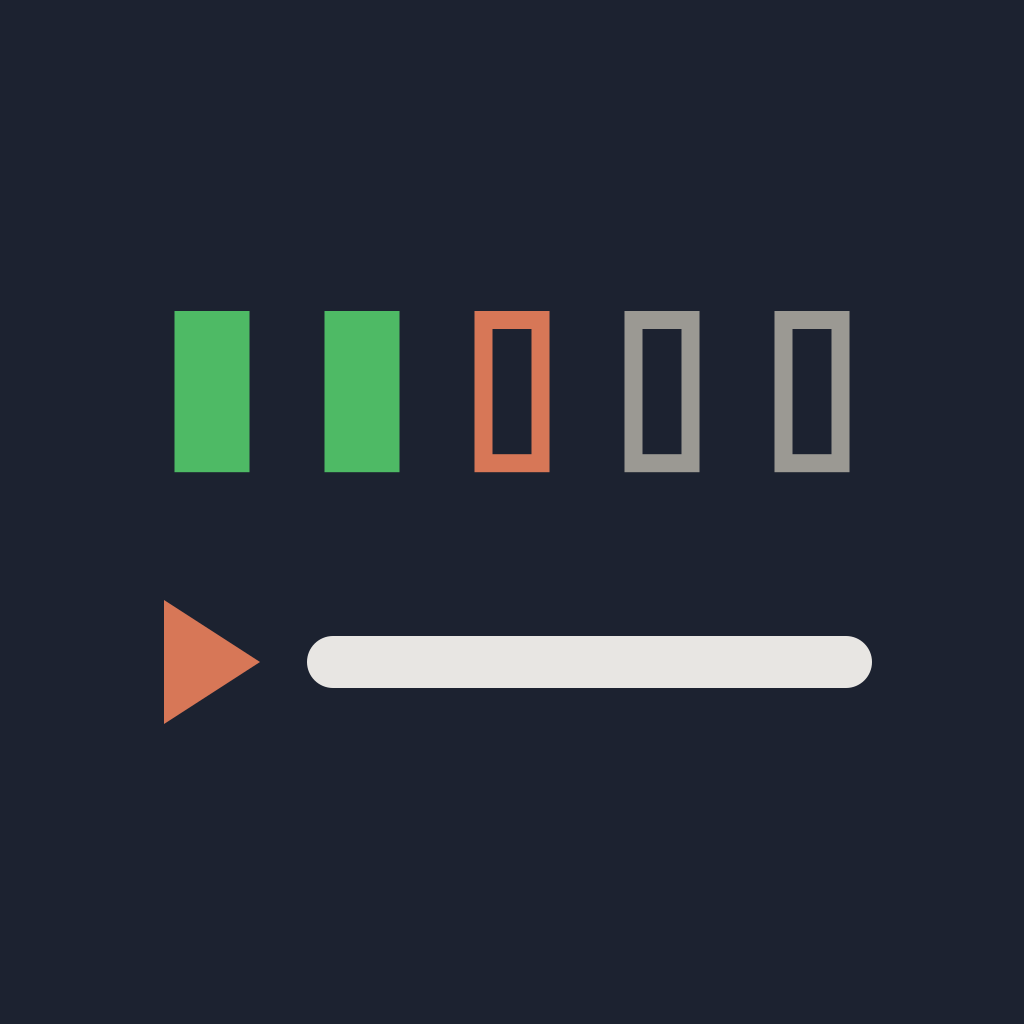
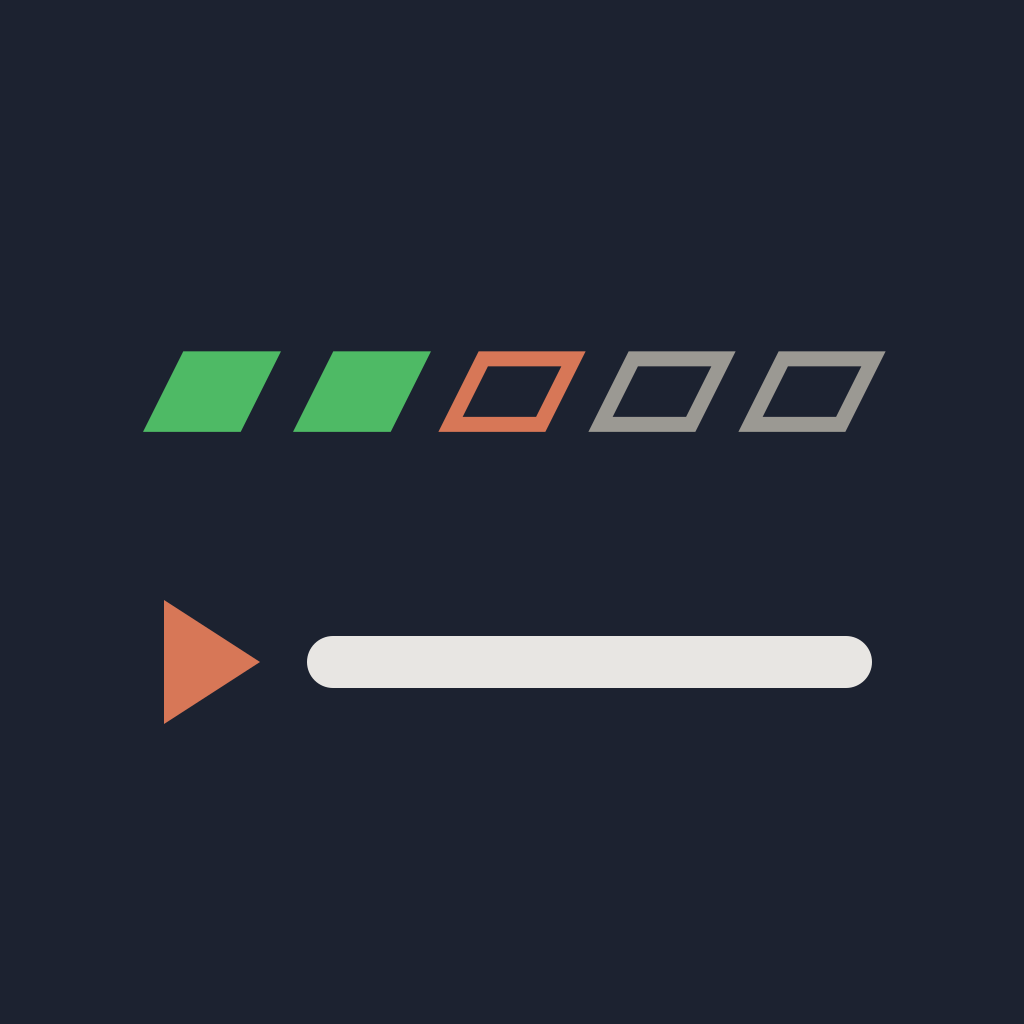
feat: draw the plan's marks slanted, in the mono face a size up
The slanted pair is the look the marks were first meant to have. It was
given up because the app's proportional font has neither glyph and
macOS borrows the filled and the hollow one from two fonts, the hollow
one half again as large. Under a monospaced base both are borrowed from
one font, so each mark's span asks for the surface's mono face.

That font draws the pair 0.29 em tall, small beside the row's text, so
the marks also go one size step up. The terminal ignores both props.

The hero, the social card and the icon are redrawn from the same rows.

Changed region(s): [[0.2812, 0.2812, 0.875, 0.4688], [0.125, 0.2812, 0.2812, 0.4688]]

diff --git a/plugin/tests/band.test.ts b/plugin/tests/band.test.ts
@@ -3,7 +3,7 @@ import { expect, mock, test } from 'claude-code/testing'
 import type { Engine } from 'claude-code/testing'
 
 import { applyPlan } from '../hooks/plan'
-import { agentFacts, agentHead, agentsRow, cells, elapsed, nested, planRow } from '../hooks/rows'
+import { agentFacts, agentHead, agentsRow, cells, elapsed, nested, planRow, stepLine } from '../hooks/rows'
 import type { Span } from '../hooks/rows'
 import type { ActivityAgent, PlanStep } from '../types'
 
@@ -96,14 +96,14 @@ test('plan row shows its marks and the step in progress, and follows an advance'
   for (const surface of ['terminal', 'desktop'] as const) {
     const ui = await $.ui.mount({ ...BAND, surface })
     const texts = (await ui.findAll({ type: 'Text' })).map(t => t.text).join('|')
-    expect(texts).toContain('plan ▮▯▯ ▶ write the fix → run the tests')
+    expect(texts).toContain('plan ▰▱▱ ▶ write the fix → run the tests')
     await ui.unmount()
   }
 
   await call($, UPDATE_PLAN, { advance: true })
   const ui = await $.ui.mount({ ...BAND, surface: 'terminal' })
   const texts = (await ui.findAll({ type: 'Text' })).map(t => t.text).join('|')
-  expect(texts).toContain('plan ▮▮▯ ▶ run the tests')
+  expect(texts).toContain('plan ▰▰▱ ▶ run the tests')
   await ui.unmount()
 })
 
@@ -113,9 +113,9 @@ test('desktop card lists every step with its mark', async ($, on) => {
   await call($, UPDATE_PLAN, { items: PLAN })
 
   const ui = await $.ui.mount({ ...BAND, surface: 'desktop' })
-  expect(await ui.find({ type: 'Text', text: /^▮ read the code$/ })).toBeDefined()
+  expect(await ui.find({ type: 'Text', text: /^▰ read the code$/ })).toBeDefined()
   expect(await ui.find({ type: 'Text', text: /^▶ write the fix$/ })).toBeDefined()
-  expect(await ui.find({ type: 'Text', text: /^▯ run the tests$/ })).toBeDefined()
+  expect(await ui.find({ type: 'Text', text: /^▱ run the tests$/ })).toBeDefined()
   await ui.unmount()
 })
 
@@ -164,7 +164,7 @@ test('band keeps what the plugins beneath it drew', async ($, on) => {
   for (const surface of ['terminal', 'desktop'] as const) {
     const ui = await $.ui.mount({ ...BAND, surface })
     expect(await ui.find({ type: 'Text', text: /^beneath$/ })).toBeDefined()
-    expect(await ui.find({ type: 'Text', text: /plan ▮▯▯ ▶/ })).toBeDefined()
+    expect(await ui.find({ type: 'Text', text: /plan ▰▱▱ ▶/ })).toBeDefined()
     await ui.unmount()
   }
 })
@@ -267,7 +267,7 @@ test('terminal draws each row as one line cut at the edge', async ($, on) => {
   const ui = await $.ui.mount({ ...BAND, surface: 'terminal' })
   const lines = (await ui.findAll({ type: 'Text' })).filter(t => t.props.wrap !== undefined)
   expect(lines.map(t => [t.props.wrap, t.text])).toEqual([
-    ['truncate-end', 'plan ▮▯▯ ▶ write the fix → run the tests'],
+    ['truncate-end', 'plan ▰▱▱ ▶ write the fix → run the tests'],
     ['truncate-end', 'agents 1 Explore: map the hooks 3m'],
   ])
   await ui.unmount()
@@ -280,7 +280,7 @@ test('plan row goes dim and shows a pause mark when no turn is running', async (
 
   const ui = await $.ui.mount({ ...BAND, props: { ...BAND.props, isWorking: false }, surface: 'terminal' })
   const texts = await ui.findAll({ type: 'Text' })
-  expect(texts.filter(t => t.props.wrap !== undefined).map(t => t.text)).toEqual(['plan ▮▯▯ ‖ write the fix'])
+  expect(texts.filter(t => t.props.wrap !== undefined).map(t => t.text)).toEqual(['plan ▰▱▱ ‖ write the fix'])
   const spans = texts.filter(t => t.props.wrap === undefined)
   expect(spans.every(t => t.props.dimColor === true && t.props.color === undefined)).toBe(true)
   await ui.unmount()
@@ -297,7 +297,7 @@ test('plan row colors a finished step and the step in progress', async ($, on) =
 
   for (const surface of ['terminal', 'desktop'] as const) {
     const ui = await $.ui.mount({ ...BAND, surface })
-    expect((await ui.find({ type: 'Text', text: /^▮$/ }))?.props.color).toBe('success')
+    expect((await ui.find({ type: 'Text', text: /^▰$/ }))?.props.color).toBe('success')
     expect((await ui.find({ type: 'Text', text: /^ ▶ $/ }))?.props.color).toBe('claude')
     await ui.unmount()
   }
@@ -321,8 +321,8 @@ test('plan row cuts a wide-character step by cells and drops the next step when 
     return text
   }
   // 11 cells of head, 19 left: nine two-cell characters and the ellipsis.
-  expect(await row(30)).toBe('plan ▮▯▯ ▶ 把殭屍列修好並補上…')
-  expect(await row(100)).toBe('plan ▮▯▯ ▶ 把殭屍列修好並補上測試 → 跑測試')
+  expect(await row(30)).toBe('plan ▰▱▱ ▶ 把殭屍列修好並補上…')
+  expect(await row(100)).toBe('plan ▰▱▱ ▶ 把殭屍列修好並補上測試 → 跑測試')
 })
 
 test('agents row names a waiting agent dim, in the order listed', async ($, on) => {
@@ -448,17 +448,17 @@ test('plan row stays paused through a later turn that leaves the plan alone', as
 
   await $.turn.start({ text: 'fix the bug', turnId: 't1' })
   await call($, UPDATE_PLAN, { items: PLAN })
-  expect(await row()).toBe('plan ▮▯▯ ▶ write the fix → run the tests')
+  expect(await row()).toBe('plan ▰▱▱ ▶ write the fix → run the tests')
 
   await $.turn.start({ text: 'something else', turnId: 't2' })
-  expect(await row()).toBe('plan ▮▯▯ ‖ write the fix')
+  expect(await row()).toBe('plan ▰▱▱ ‖ write the fix')
 
   await $.turn.start({ text: 'map the hooks', turnId: 't3', agentId: 'a1' })
   await call($, UPDATE_PLAN, { advance: true })
-  expect(await row()).toBe('plan ▮▮▯ ▶ run the tests')
+  expect(await row()).toBe('plan ▰▰▱ ▶ run the tests')
 
   await $.turn.start({ text: 'read the tests', turnId: 't4', agentId: 'a1' })
-  expect(await row()).toBe('plan ▮▮▯ ▶ run the tests')
+  expect(await row()).toBe('plan ▰▰▱ ▶ run the tests')
 })
 
 test('a step is stamped when it becomes in progress, and keeps its stamp while it stays so', () => {
@@ -486,12 +486,12 @@ test('a step is stamped when it becomes in progress, and keeps its stamp while i
 
 test('plan row says how long the step in progress has run, from a minute on and while a turn runs', () => {
   const since = (minutes: number) => applyPlan([], { items: PLAN }, NOW - minutes * 60_000)
-  expect(text(planRow(since(0.5), true, 100, NOW))).toBe('plan ▮▯▯ ▶ write the fix → run the tests')
-  expect(text(planRow(since(4), true, 100, NOW))).toBe('plan ▮▯▯ ▶ write the fix 4m → run the tests')
+  expect(text(planRow(since(0.5), true, 100, NOW))).toBe('plan ▰▱▱ ▶ write the fix → run the tests')
+  expect(text(planRow(since(4), true, 100, NOW))).toBe('plan ▰▱▱ ▶ write the fix 4m → run the tests')
   expect(planRow(since(4), true, 100, NOW).find(([t]) => t === ' 4m')?.[1]).toEqual({ dimColor: true })
-  expect(text(planRow(since(4), false, 100, NOW))).toBe('plan ▮▯▯ ‖ write the fix')
+  expect(text(planRow(since(4), false, 100, NOW))).toBe('plan ▰▱▱ ‖ write the fix')
   // 11 cells of head and 3 of minutes leave 6: the step's text gives way, the minutes do not.
-  expect(text(planRow(since(4), true, 20, NOW))).toBe('plan ▮▯▯ ▶ write… 4m')
+  expect(text(planRow(since(4), true, 20, NOW))).toBe('plan ▰▱▱ ▶ write… 4m')
 })
 
 test('plan row counts a step from the plan call that started it', async ($, on) => {
@@ -502,7 +502,7 @@ test('plan row counts a step from the plan call that started it', async ($, on) 
 
   const ui = await $.ui.mount({ ...BAND, surface: 'terminal' })
   expect((await ui.findAll({ type: 'Text' })).find(t => t.props.wrap !== undefined)?.text).toBe(
-    'plan ▮▯▯ ▶ write the fix 4m → run the tests',
+    'plan ▰▱▱ ▶ write the fix 4m → run the tests',
   )
   await ui.unmount()
 })
@@ -520,8 +520,32 @@ test('plan row gives every step in progress the accent mark', () => {
     { content: 'b', status: 'in_progress' },
     { content: 'c', status: 'pending' },
   ]
-  const marks = planRow(steps, true, 100, NOW).filter(([t]) => t === '▯')
+  const marks = planRow(steps, true, 100, NOW).filter(([t]) => t === '▱')
   expect(marks.map(([, style]) => style?.color)).toEqual(['claude', 'claude', undefined])
+})
+
+test('the filled and the hollow mark are drawn in the mono face, on the row and in the card', () => {
+  const steps: PlanStep[] = [
+    { content: 'a', status: 'completed' },
+    { content: 'b', status: 'in_progress' },
+    { content: 'c', status: 'pending' },
+  ]
+  const inMono = (spans: Span[]) => spans.filter(([, style]) => style?.mono === true).map(([t]) => t)
+  for (const isWorking of [true, false]) {
+    expect(inMono(planRow(steps, isWorking, 100, NOW))).toEqual(['▰', '▱', '▱'])
+    expect(steps.flatMap(s => inMono(stepLine(s, isWorking)))).toEqual(['▰', '▱'])
+  }
+})
+
+test('the filled and the hollow mark are drawn a size up, and nothing else on the row is', () => {
+  const steps: PlanStep[] = [
+    { content: 'a', status: 'completed' },
+    { content: 'b', status: 'in_progress' },
+    { content: 'c', status: 'pending' },
+  ]
+  const sized = (spans: Span[]) => spans.filter(([, style]) => style?.size !== undefined).map(([t, style]) => `${t} ${style?.size}`)
+  expect(sized(planRow(steps, true, 100, NOW))).toEqual(['▰ heading', '▱ heading', '▱ heading'])
+  expect(steps.flatMap(s => sized(stepLine(s, true)))).toEqual(['▰ heading', '▱ heading'])
 })
 
 test('plan row shows the pause mark with no step in progress and no turn running', () => {
@@ -531,8 +555,8 @@ test('plan row shows the pause mark with no step in progress and no turn running
     { content: 'c', status: 'pending' },
     { content: 'd', status: 'pending' },
   ]
-  expect(text(planRow(steps, false, 100, NOW))).toBe('plan ▮▮▯▯ ‖')
-  expect(text(planRow(steps, true, 100, NOW))).toBe('plan ▮▮▯▯')
+  expect(text(planRow(steps, false, 100, NOW))).toBe('plan ▰▰▱▱ ‖')
+  expect(text(planRow(steps, true, 100, NOW))).toBe('plan ▰▰▱▱')
 })
 
 test('agents row shows every agent whose description has room, and hands spare cells to a longer one', () => {

diff --git a/plugin/hooks/rows.ts b/plugin/hooks/rows.ts
@@ -7,8 +7,10 @@ const MIN_TEXT = 12
 // A type cut shorter than this names nothing, so it is left out instead.
 const MIN_TYPE = 4
 export const SEP = ' · '
-// ▮ and ▯ come from one font where the app's own has neither; a pair drawn from two fonts differs in size.
-const MARK = { completed: '▮', in_progress: '▶', pending: '▯' } as const
+const MARK = { completed: '▰', in_progress: '▶', pending: '▱' } as const
+// Under a proportional face ▰ and ▱ are borrowed from two fonts and differ in size; under the mono face, from one.
+// That one draws them small beside the text, so they go a size up; the terminal has one size.
+const marked = (style: TextProps): TextProps => ({ ...style, mono: true, size: 'heading' })
 const PAUSE = '‖'
 const DIM: TextProps = { dimColor: true }
 
@@ -94,7 +96,9 @@ export const planRow = (steps: readonly PlanStep[], isWorking: boolean, cols: nu
     steps.length * 4 > cols
       ? []
       : steps.map((s): Span =>
-          s.status === 'completed' ? [MARK.completed, tone('success')] : [MARK.pending, s.status === 'in_progress' ? tone('claude') : DIM],
+          s.status === 'completed'
+            ? [MARK.completed, marked(tone('success'))]
+            : [MARK.pending, marked(s.status === 'in_progress' ? tone('claude') : DIM)],
         )
   // Beside the marks a count reads as the number of the step after it, so it is written only in their place.
   const count = marks.length > 0 ? '' : `${done}/${steps.length} done`
@@ -121,12 +125,13 @@ export const planRow = (steps: readonly PlanStep[], isWorking: boolean, cols: nu
 }
 
 export const stepLine = (s: PlanStep, isWorking: boolean): Span[] => {
-  if (s.status === 'pending' || !isWorking) {
-    return [[`${s.status === 'in_progress' ? PAUSE : MARK[s.status]} ${s.content}`, DIM]]
+  if (s.status === 'in_progress') {
+    return isWorking
+      ? [[MARK.in_progress, { color: 'claude' }], [` ${s.content}`, { weight: 'semibold' }]]
+      : [[`${PAUSE} ${s.content}`, DIM]]
   }
-  return s.status === 'completed'
-    ? [[MARK.completed, { color: 'success' }], [` ${s.content}`, DIM]]
-    : [[MARK.in_progress, { color: 'claude' }], [` ${s.content}`, { weight: 'semibold' }]]
+  const tone: TextProps = isWorking && s.status === 'completed' ? { color: 'success' } : DIM
+  return [[MARK[s.status], marked(tone)], [` ${s.content}`, DIM]]
 }
 
 // The engine calls its cost an estimate and asks a mod that shows it to say so.

diff --git a/README.md b/README.md
@@ -4,7 +4,7 @@
 
 [![CI: check](https://github.com/zexion7873/activity-band/actions/workflows/check.yml/badge.svg)](https://github.com/zexion7873/activity-band/actions/workflows/check.yml)
 
-<img src="docs/band.svg" width="672" title="Drawn by the mod's own row builders from sample steps and agents, not a screenshot." alt="The band's two rows, drawn by the mod's own row builders from sample steps and agents rather than a screenshot. The plan row: five upright marks, two filled green for finished steps, one hollow in the accent color for the step in progress and two hollow grey for pending ones, then a play mark and 'write the fix' in bold with a dimmed '4m', then an arrow and the next step, 'run the tests', dimmed. The agents row: 'agents 2', then a dimmed 'general-purpose:' before 'review the diff' with a dimmed 'waiting 5m', then a dimmed 'Explore:' before 'map the hooks' with a dimmed '3m'.">
+<img src="docs/band.svg" width="672" title="Drawn by the mod's own row builders from sample steps and agents, not a screenshot." alt="The band's two rows, drawn by the mod's own row builders from sample steps and agents rather than a screenshot. The plan row: five slanted marks, two filled green for finished steps, one hollow in the accent color for the step in progress and two hollow grey for pending ones, then a play mark and 'write the fix' in bold with a dimmed '4m', then an arrow and the next step, 'run the tests', dimmed. The agents row: 'agents 2', then a dimmed 'general-purpose:' before 'review the diff' with a dimmed 'waiting 5m', then a dimmed 'Explore:' before 'map the hooks' with a dimmed '3m'.">
 
 **Shows the plan step in progress and the subagents still running, above the
 Claude Code prompt, so you need not open a panel to see where a turn is.**
@@ -25,11 +25,11 @@ subagents in a side panel. Scroll up, or close the panel, and both are out of
 sight. activity-band puts the two facts you look for on rows above the prompt:
 
 ```
-plan ▮▮▯▯▯ ▶ write the fix 4m → run the tests
+plan ▰▰▱▱▱ ▶ write the fix 4m → run the tests
 agents 2 general-purpose: review the diff waiting 5m · Explore: map the hooks 3m
 ```
 
-- **The plan row:** one mark for each step (`▮` done, `▯` not yet), the step
+- **The plan row:** one mark for each step (`▰` done, `▱` not yet), the step
   in progress with how long it has been so (from a minute on), and the next
   step when the row has room for it. A plan too
   long for its marks to fit in a quarter of the row shows a count in their
@@ -48,8 +48,8 @@ agents 2 general-purpose: review the diff waiting 5m · Explore: map the hooks 3
   as `failed 3m` (in the error color) or `stopped 3m`, the minutes being how
   long it ran, and is counted while it stays. The row leaves when no agent is
   left on it.
-- **A card on hover** (desktop app): every step with its mark (`▮` done, `▶` in
-  progress, `▯` pending) over the plan row; every working agent with its status
+- **A card on hover** (desktop app): every step with its mark (`▰` done, `▶` in
+  progress, `▱` pending) over the plan row; every working agent with its status
   over the agents row, each one indented under the agent that spawned it.
   Under an agent, when known: how much of its context window it has used, its
   model and what it has cost so far (`context 43% · claude-haiku-5-5 · est.

diff --git a/AGENTS.md b/AGENTS.md
@@ -80,9 +80,14 @@ says otherwise.
 - **Let the marks give way before the step in progress.** A plan whose marks
   would take more than a quarter of the row is drawn with its count alone: the
   two say the same thing, and the step's text is what the row is for.
-- **Take both marks from one font.** `▮` and `▯` fall back to the same font
-  where the app's own has neither; a filled and a hollow mark from two fonts
-  differ in size on the desktop. Measured with CoreText, not pinned by a test.
+- **Draw the filled and the hollow mark in the mono face, a size up.** The
+  app's own font has neither `▰` nor `▱`; under a proportional face macOS
+  borrows them from two fonts and the hollow one draws half again as large,
+  under a monospaced one both come from one font. So each carries `mono`. That
+  font draws them 0.29 em tall, small beside the text, so each also carries
+  `size: 'heading'`, the one step between the default and `title`. Both hold
+  on the row and in the card, and the terminal ignores both. The tests pin the
+  props; the sizes were measured with CoreText on macOS, on no other system.
 - **Count width in cells, not characters.** A CJK character takes two; a cut
   by `length` overflows `e.props.bodyColumns`.
 - **Hand back no row wider than its width.** Each builder ends in `fit`, so
@@ -121,14 +126,15 @@ says otherwise.
 Both hover cards are pinned by tests and have been watched in the desktop app,
 with the colors, the paused row, a plan held paused through a later turn, the
 cut at a narrow width, a plan drawn without its marks and an agent drawn
-without its type. So have the `▮` and `▯` marks on the row and in the plan
-card, a row with marks and no count, the minutes after the step in progress,
-the dim type, a dim `waiting`, a stopped agent kept on the row, the card's
-facts line and its indent for a spawned agent, and the card's buttons: how a
-`plain` `Button` draws there, the card staying open while the pointer moves
-onto one, a press that opens an agent, the bold mark on the agent on screen
-and `← main conversation`. Not watched there: `12/30 done`, a run written in
-hours, a failed agent kept on the row, `quiet`, and the toast on a refusal.
+without its type. So have a row with marks and no count, the minutes after
+the step in progress, the dim type, a dim `waiting`, a stopped agent kept on
+the row, the card's facts line and its indent for a spawned agent, and the
+card's buttons: how a `plain` `Button` draws there, the card staying open
+while the pointer moves onto one, a press that opens an agent, the bold mark
+on the agent on screen and `← main conversation`, and `▰` and `▱` in the mono
+face a size up, one size as each other. Not watched there: `12/30 done`, a
+run written in hours, a failed agent kept on the row, `quiet`, and the toast
+on a refusal.
 In a real terminal no row has been watched.
 
 ## The plan source is not a documented interface
